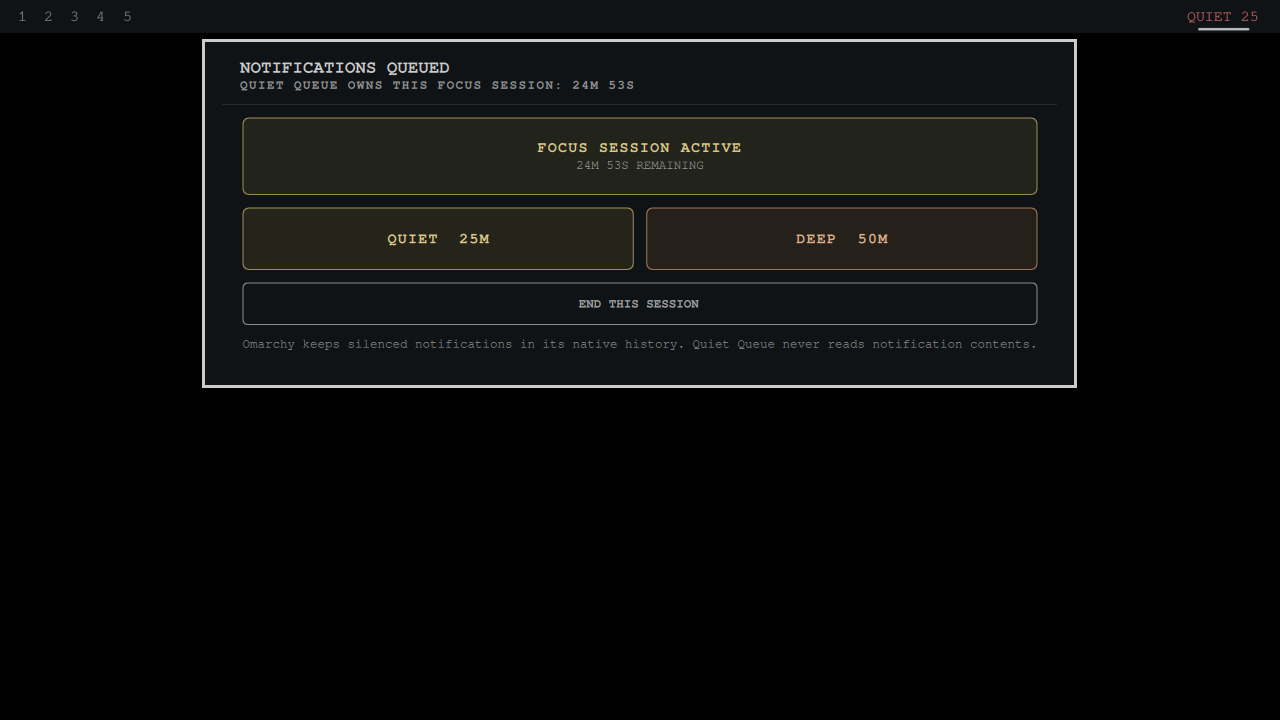
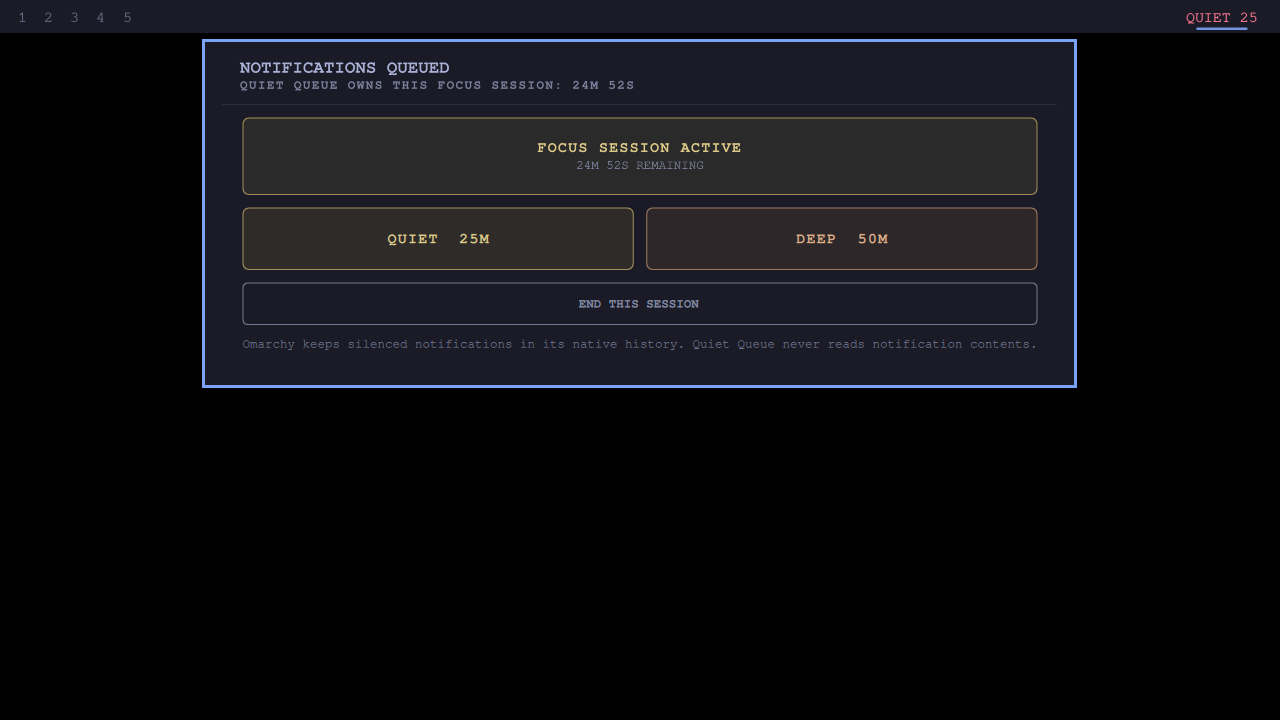
fix: qualify the palette for Qt 6.12, read DND with isDnd on current Omarchy, fold in Dependabot (#11)
* fix(theme): qualify the palette as Commons.Color for Qt 6.12; fold in Dependabot

Omarchy's shell contract (omacom/omarchy docs/omarchy-shell.md, Theme tokens)
now requires plugin QML to import qs.Commons with an alias and use
Commons.Color, because Qt 6.12 introduces its own Color type: "Existing
third-party plugins that use bare Color must make the same change." Arch now
ships Qt 6.12.0. Panel.qml used bare Color in 6 fallback colours; they now use Commons.Color. BarWidget.qml had none. A contract test fails on any bare `Color.` in the
shipped QML and requires the alias wherever Commons.Color appears.

scripts/rig-render.sh now seeds the current-theme state a real Omarchy
install has (current/theme, theme.name, background, the entries
omarchy-theme-set writes), copied from crew-chief ba0fa5b. On the upgraded
rig (Omarchy 74de104) first-party image-picker and lock read that state and
log QML warnings without it, which the render correctly refuses to certify.
Chose seeding real install state over narrowing the warning filter, because
a plugin can cause a warning inside a first-party component it uses.

Folds in the open Dependabot bumps, which failed CI only on the audit-harness
hash pin: actions/setup-node 7.0.0 -> 7.1.0 (#10); jeremylongshore/minimax-code-review to cfb2c72 (#9). The MiniMax target cfb2c72 is identical to the fork's main
per the compare API. Harness re-pinned after verify listed only
[…]

diff --git a/Panel.qml b/Panel.qml
@@ -2,6 +2,9 @@ import QtQuick
 import Quickshell
 import Quickshell.Io
 import qs.Commons
+// Qt 6.12 adds its own Color type, so Omarchy's palette singleton must be
+// qualified (docs/omarchy-shell.md, Theme tokens).
+import qs.Commons as Commons
 import qs.Ui
 import "Model.js" as Model
 
@@ -42,12 +45,12 @@ Panel {
     contentWidth: panel.fittedContentWidth(Style.space(700)); contentHeight: panel.fittedContentHeight(content.implicitHeight)
     PanelKeyCatcher { id: keys; anchors.fill: parent; onCloseRequested: root.close(); onTabRequested: function(direction) { root.switchPanel(direction) }
       Column { id: content; anchors.fill: parent; spacing: Style.space(10)
-        PanelHero { title: !root.loaded ? "READING QUIET MODE" : (root.state.silenced ? "NOTIFICATIONS QUEUED" : "NOTIFICATIONS FLOWING"); meta: !root.loaded ? "Checking Omarchy's local notification toggle." : (root.state.owned ? "Quiet Queue owns this focus session: " + Model.timeLabel(root.state.remaining) : (root.state.silenced ? "Silenced outside Quiet Queue. History remains available in Omarchy." : "Start a bounded quiet session. Nothing is discarded.")); foreground: root.bar ? root.bar.foreground : Color.foreground; fontFamily: root.bar ? root.bar.fontFamily : Style.font.family }
-        PanelSeparator { foreground: root.bar ? root.bar.foreground : Color.foreground }
+        PanelHero { title: !root.loaded ? "READING QUIET MODE" : (root.state.silenced ? "NOTIFICATIONS QUEUED" : "NOTIFICATIONS FLOWING"); meta: !root.loaded ? "Checking Omarchy's local notification toggle." : (root.state.owned ? "Quiet Queue owns this focus session: " + Model.timeLabel(root.state.remaining) : (root.state.silenced ? "Silenced outside Quiet Queue. History remains available in Omarchy." : "Start a bounded quiet session. Nothing is discarded.")); foreground: root.bar ? root.bar.foreground : Commons.Color.foreground; fontFamily: root.bar ? root.bar.fontFamily : Style.font.family }
+        PanelSeparator { foreground: root.bar ? root.bar.foreground : Commons.Color.foreground }
         Rectangle { visible: root.loaded; width: parent.width - Style.space(32); x: Style.space(16); height: Style.space(62); radius: Style.space(5); readonly property real statusHue: Model.modeHue(root.state); color: Qt.hsla(statusHue, 0.46, 0.50, 0.11); border.color: Qt.hsla(statusHue, 0.55, 0.62, 0.72)
           Column { anchors.centerIn: parent; spacing: Style.space(3)
             Text { anchors.horizontalCenter: parent.horizontalCenter; text: root.state.silenced ? (root.state.owned ? "FOCUS SESSION ACTIVE" : "NATIVE DND ACTIVE") : "NOTIFICATIONS OPEN"; textFormat: Text.PlainText; color: Qt.hsla(parent.parent.statusHue, 0.56, 0.70, 1); font.family: root.bar ? root.bar.fontFamily : Style.font.family; font.bold: true; font.letterSpacing: 1 }
-            Text { anchors.horizontalCenter: parent.horizontalCenter; text: root.state.owned ? Model.timeLabel(root.state.remaining) + " REMAINING" : (root.state.silenced ? "QUIET QUEUE WILL NOT TURN THIS OFF" : "CHOOSE A BOUNDED QUIET SESSION"); textFormat: Text.PlainText; width: Style.space(330); horizontalAlignment: Text.AlignHCenter; elide: Text.ElideRight; color: root.bar ? Qt.darker(root.bar.foreground, 1.25) : Color.muted; font.family: root.bar ? root.bar.fontFamily : Style.font.family; font.pixelSize: Style.font.caption }
+            Text { anchors.horizontalCenter: parent.horizontalCenter; text: root.state.owned ? Model.timeLabel(root.state.remaining) + " REMAINING" : (root.state.silenced ? "QUIET QUEUE WILL NOT TURN THIS OFF" : "CHOOSE A BOUNDED QUIET SESSION"); textFormat: Text.PlainText; width: Style.space(330); horizontalAlignment: Text.AlignHCenter; elide: Text.ElideRight; color: root.bar ? Qt.darker(root.bar.foreground, 1.25) : Commons.Color.muted; font.family: root.bar ? root.bar.fontFamily : Style.font.family; font.pixelSize: Style.font.caption }
           }
         }
         Row { width: parent.width - Style.space(32); x: Style.space(16); spacing: Style.space(10)
@@ -60,11 +63,11 @@ Panel {
             MouseArea { anchors.fill: parent; cursorShape: Qt.PointingHandCursor; onClicked: root.run(["--start", "3000"]) }
           }
         }
-        Rectangle { visible: root.state.owned; width: parent.width - Style.space(32); x: Style.space(16); height: Style.space(34); radius: Style.space(4); color: "transparent"; border.color: root.bar ? Qt.darker(root.bar.foreground, 1.45) : Color.muted; Accessible.role: Accessible.Button; Accessible.name: "End Quiet Queue session"
-          Text { anchors.centerIn: parent; text: "END THIS SESSION"; textFormat: Text.PlainText; color: root.bar ? Qt.darker(root.bar.foreground, 1.25) : Color.muted; font.family: root.bar ? root.bar.fontFamily : Style.font.family; font.pixelSize: Style.font.caption; font.bold: true }
+        Rectangle { visible: root.state.owned; width: parent.width - Style.space(32); x: Style.space(16); height: Style.space(34); radius: Style.space(4); color: "transparent"; border.color: root.bar ? Qt.darker(root.bar.foreground, 1.45) : Commons.Color.muted; Accessible.role: Accessible.Button; Accessible.name: "End Quiet Queue session"
+          Text { anchors.centerIn: parent; text: "END THIS SESSION"; textFormat: Text.PlainText; color: root.bar ? Qt.darker(root.bar.foreground, 1.25) : Commons.Color.muted; font.family: root.bar ? root.bar.fontFamily : Style.font.family; font.pixelSize: Style.font.caption; font.bold: true }
           MouseArea { anchors.fill: parent; cursorShape: Qt.PointingHandCursor; onClicked: root.run(["--end"]) }
         }
-        Text { visible: root.loaded; text: "Omarchy keeps silenced notifications in its native history. Quiet Queue never reads notification contents."; textFormat: Text.PlainText; width: parent.width - Style.space(32); x: Style.space(16); wrapMode: Text.WordWrap; color: root.bar ? Qt.darker(root.bar.foreground, 1.35) : Color.muted; font.family: root.bar ? root.bar.fontFamily : Style.font.family; font.pixelSize: Style.font.caption }
+        Text { visible: root.loaded; text: "Omarchy keeps silenced notifications in its native history. Quiet Queue never reads notification contents."; textFormat: Text.PlainText; width: parent.width - Style.space(32); x: Style.space(16); wrapMode: Text.WordWrap; color: root.bar ? Qt.darker(root.bar.foreground, 1.35) : Commons.Color.muted; font.family: root.bar ? root.bar.fontFamily : Style.font.family; font.pixelSize: Style.font.caption }
         Item { width: 1; height: Style.space(4) }
       }
     }

diff --git a/tests/contract.test.js b/tests/contract.test.js
@@ -55,3 +55,15 @@ test("marketplace contract binds the active session, trust boundary, and image a
   for (const claim of ["500-character", "pre-existing native DND", "1280x720", "DND off", "DND on", "SHA-256"])
     assert.match(contract, new RegExp(claim))
 })
+
+test("QML qualifies Omarchy's palette as Commons.Color, never bare Color", () => {
+  // Qt 6.12 introduces its own Color type; omarchy docs/omarchy-shell.md
+  // (Theme tokens) requires plugins to import qs.Commons with an alias.
+  const files = fs.readdirSync(root).filter(name => name.endsWith(".qml"))
+  assert.ok(files.length > 0)
+  for (const file of files) {
+    const source = fs.readFileSync(path.join(root, file), "utf8")
+    assert.doesNotMatch(source, /(^|[^\w.])Color\./m, file + " uses bare Color")
+    if (/Commons\.Color\./.test(source)) assert.match(source, /^import qs\.Commons as Commons$/m, file)
+  }
+})

diff --git a/tests/helper.test.js b/tests/helper.test.js
@@ -12,8 +12,12 @@ function setup() {
   const mock = path.join(bin, "omarchy-shell")
   fs.writeFileSync(mock, `#!/usr/bin/env bash
 set -e
-if [[ "$2" == dndState ]]; then
+if [[ "$2" == isDnd ]]; then
   cat "$DND_FILE"
+elif [[ "$2" == dndState ]]; then
+  # Removed upstream in Omarchy a4c2a306c; current omarchy-shell fails it.
+  echo "Function not found." >&2
+  exit 1
 elif [[ "$2" == setDnd ]]; then
   [[ "\${DND_FAIL_SET:-}" == "$3" ]] && exit 7
   [[ "\${DND_NOOP_SET:-}" == "$3" ]] || printf "%s" "$3" > "$DND_FILE"

diff --git a/tests/smoke.test.js b/tests/smoke.test.js
@@ -24,7 +24,7 @@ test("stock Perl helper scans against an empty private state root", () => {
   try {
     const bin = path.join(temp, "bin"); fs.mkdirSync(bin)
     const shell = path.join(bin, "omarchy-shell")
-    fs.writeFileSync(shell, '#!/usr/bin/env sh\n[ "$2" = dndState ] && printf off\n')
+    fs.writeFileSync(shell, '#!/usr/bin/env sh\n[ "$2" = isDnd ] && printf off\n')
     fs.chmodSync(shell, 0o755)
     const result = spawnSync(path.join(root, "bin", "quiet-queue"), ["--scan"], {
       encoding: "utf8",

diff --git a/CHANGELOG.md b/CHANGELOG.md
@@ -19,6 +19,26 @@ and gate c28 refuses them.
 
 Nothing yet.
 
+## [0.2.1] - 2026-11-15
+
+### Fixed
+
+- Read native Do Not Disturb with the `isDnd` IPC call. Omarchy removed the
+  old `dndState` alias on 2026-10-22, so on current Omarchy the helper always
+  read DND as off and a start failed with "native DND transition was not
+  applied".
+- Qualify Omarchy's palette as `Commons.Color`, as the shell contract requires
+  now that Qt 6.12 has its own `Color` type. A contract test fails on any bare
+  `Color.` in the shipped QML.
+
+### Changed
+
+- Seed the rig render's isolated home with the current-theme state a real
+  Omarchy install has, so first-party shell plugins on current Omarchy do not
+  log warnings the render would read as plugin warnings.
+- Bump `actions/setup-node` to 7.1.0 and the MiniMax review action to the
+  fork's current main (`cfb2c72`), with the audit harness re-pinned.
+
 ## [0.2.0] - 2026-08-29
 
 ### Added
